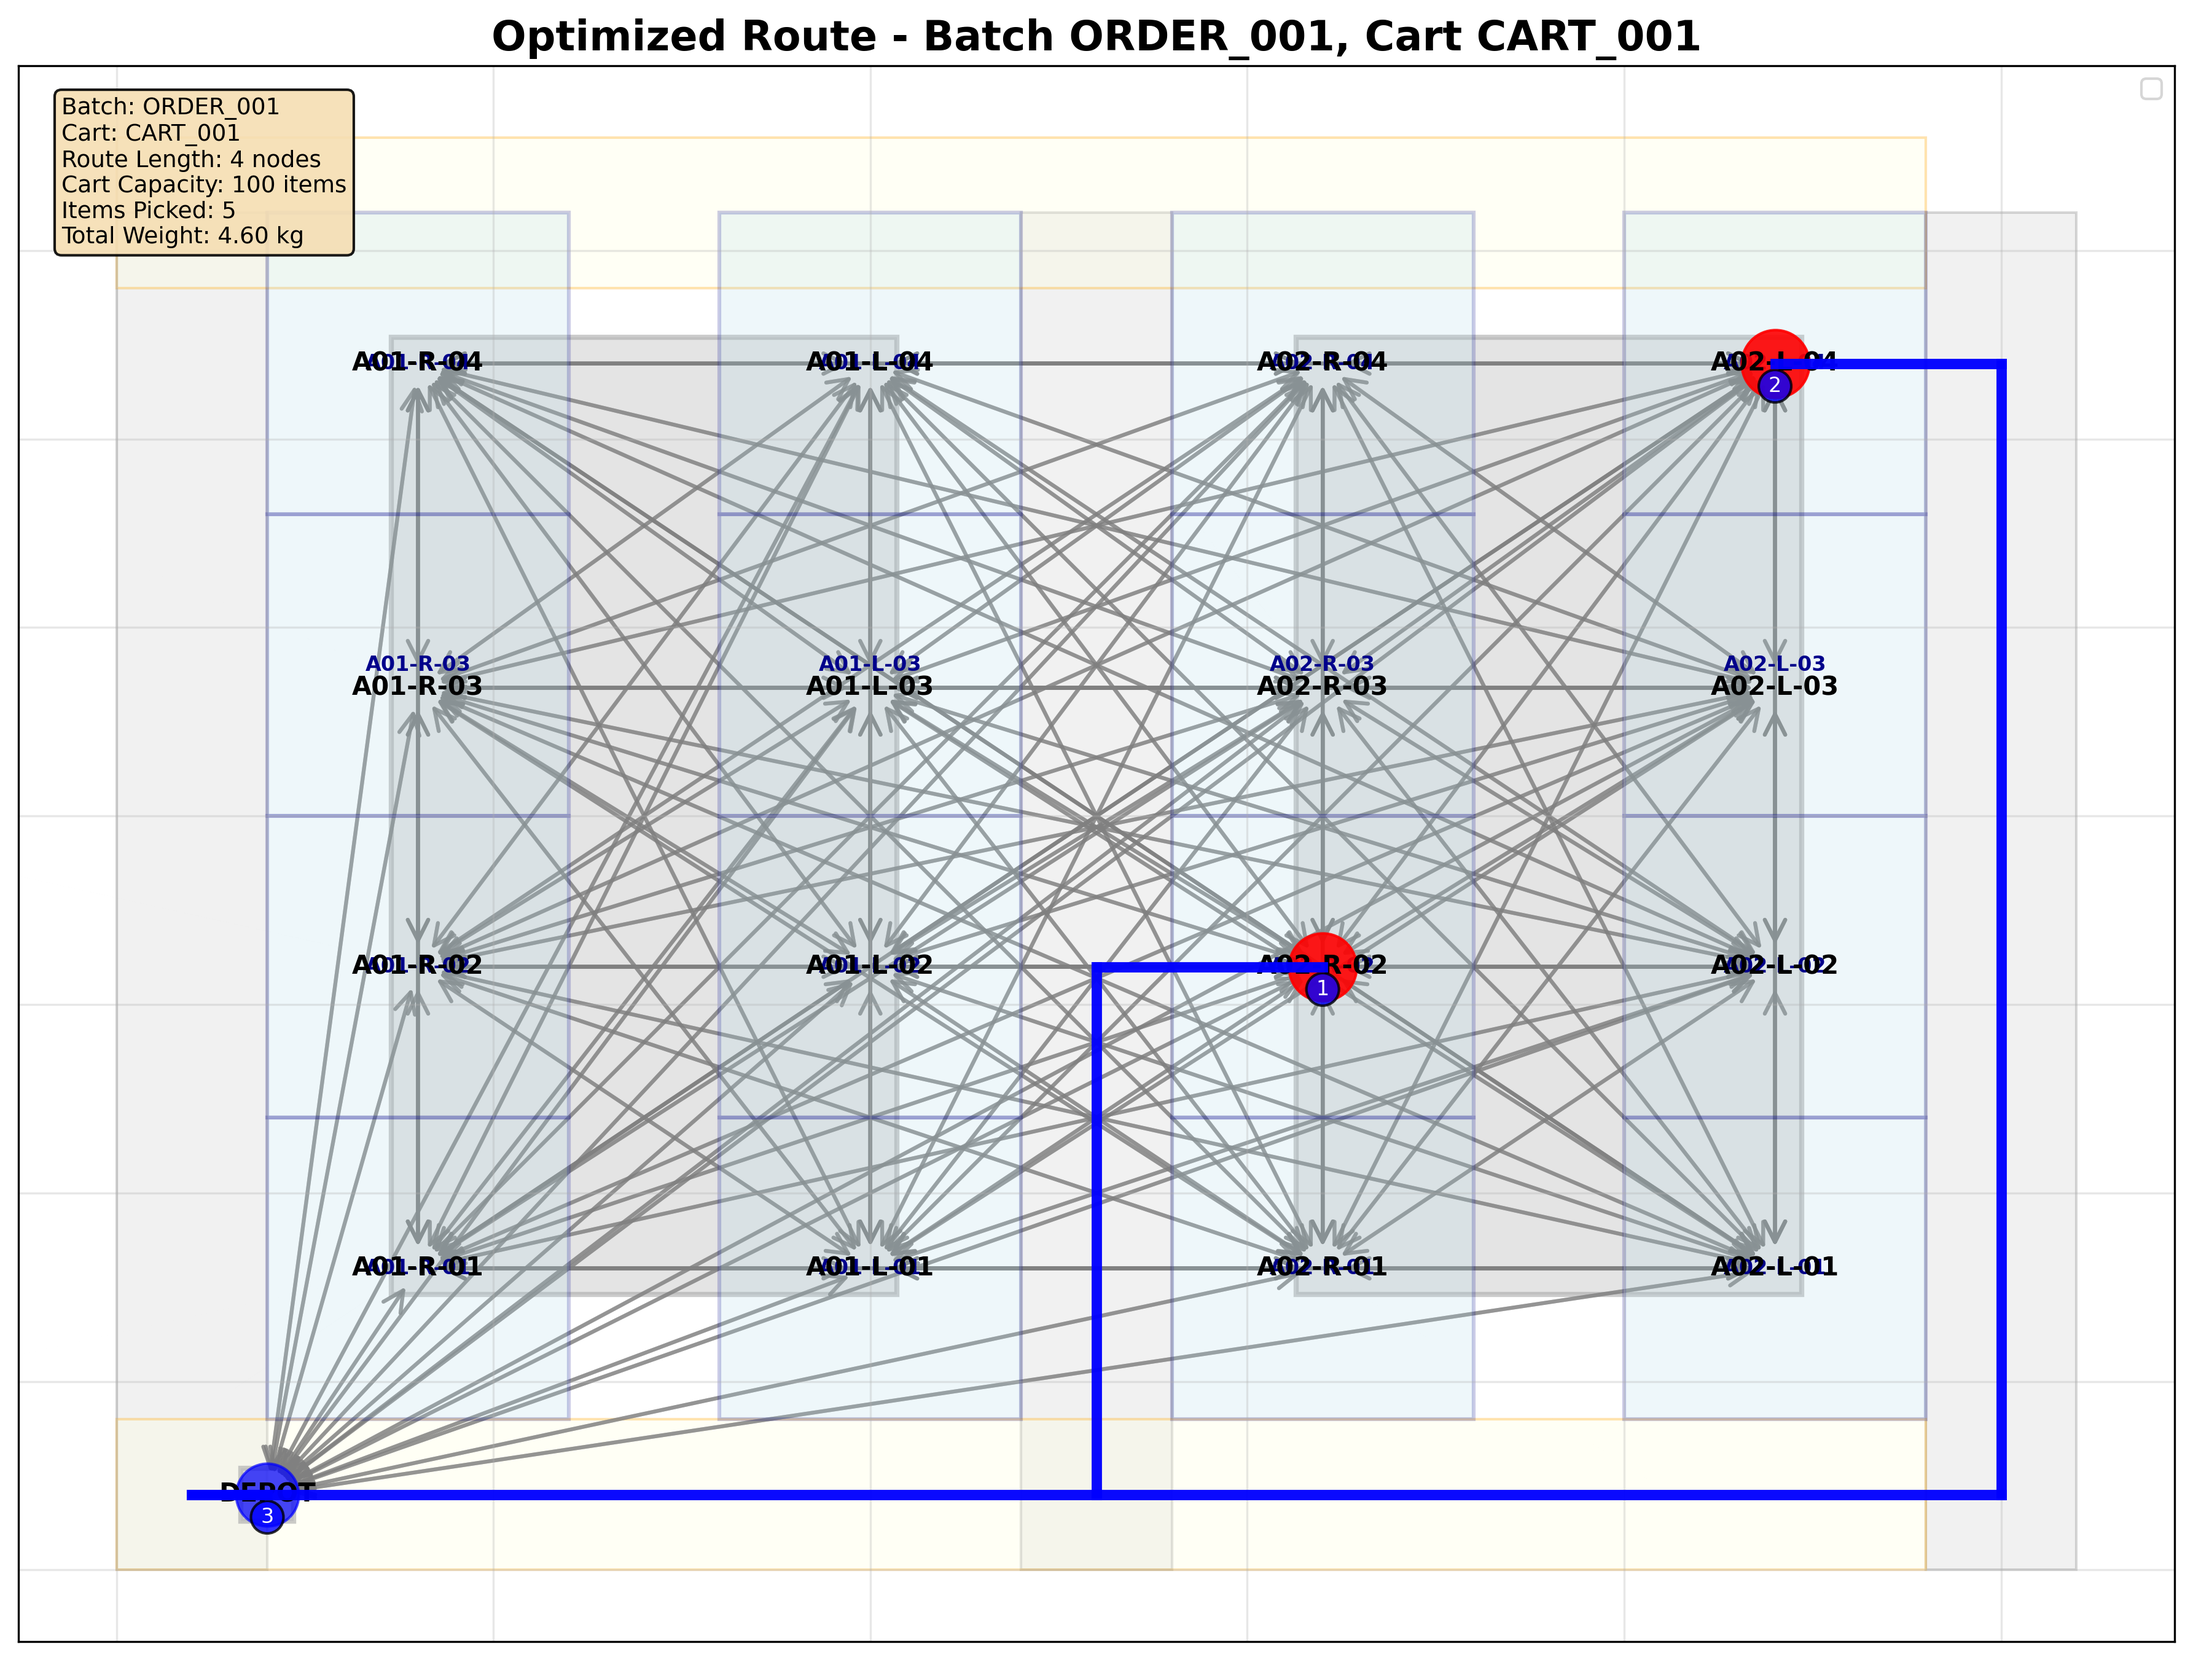
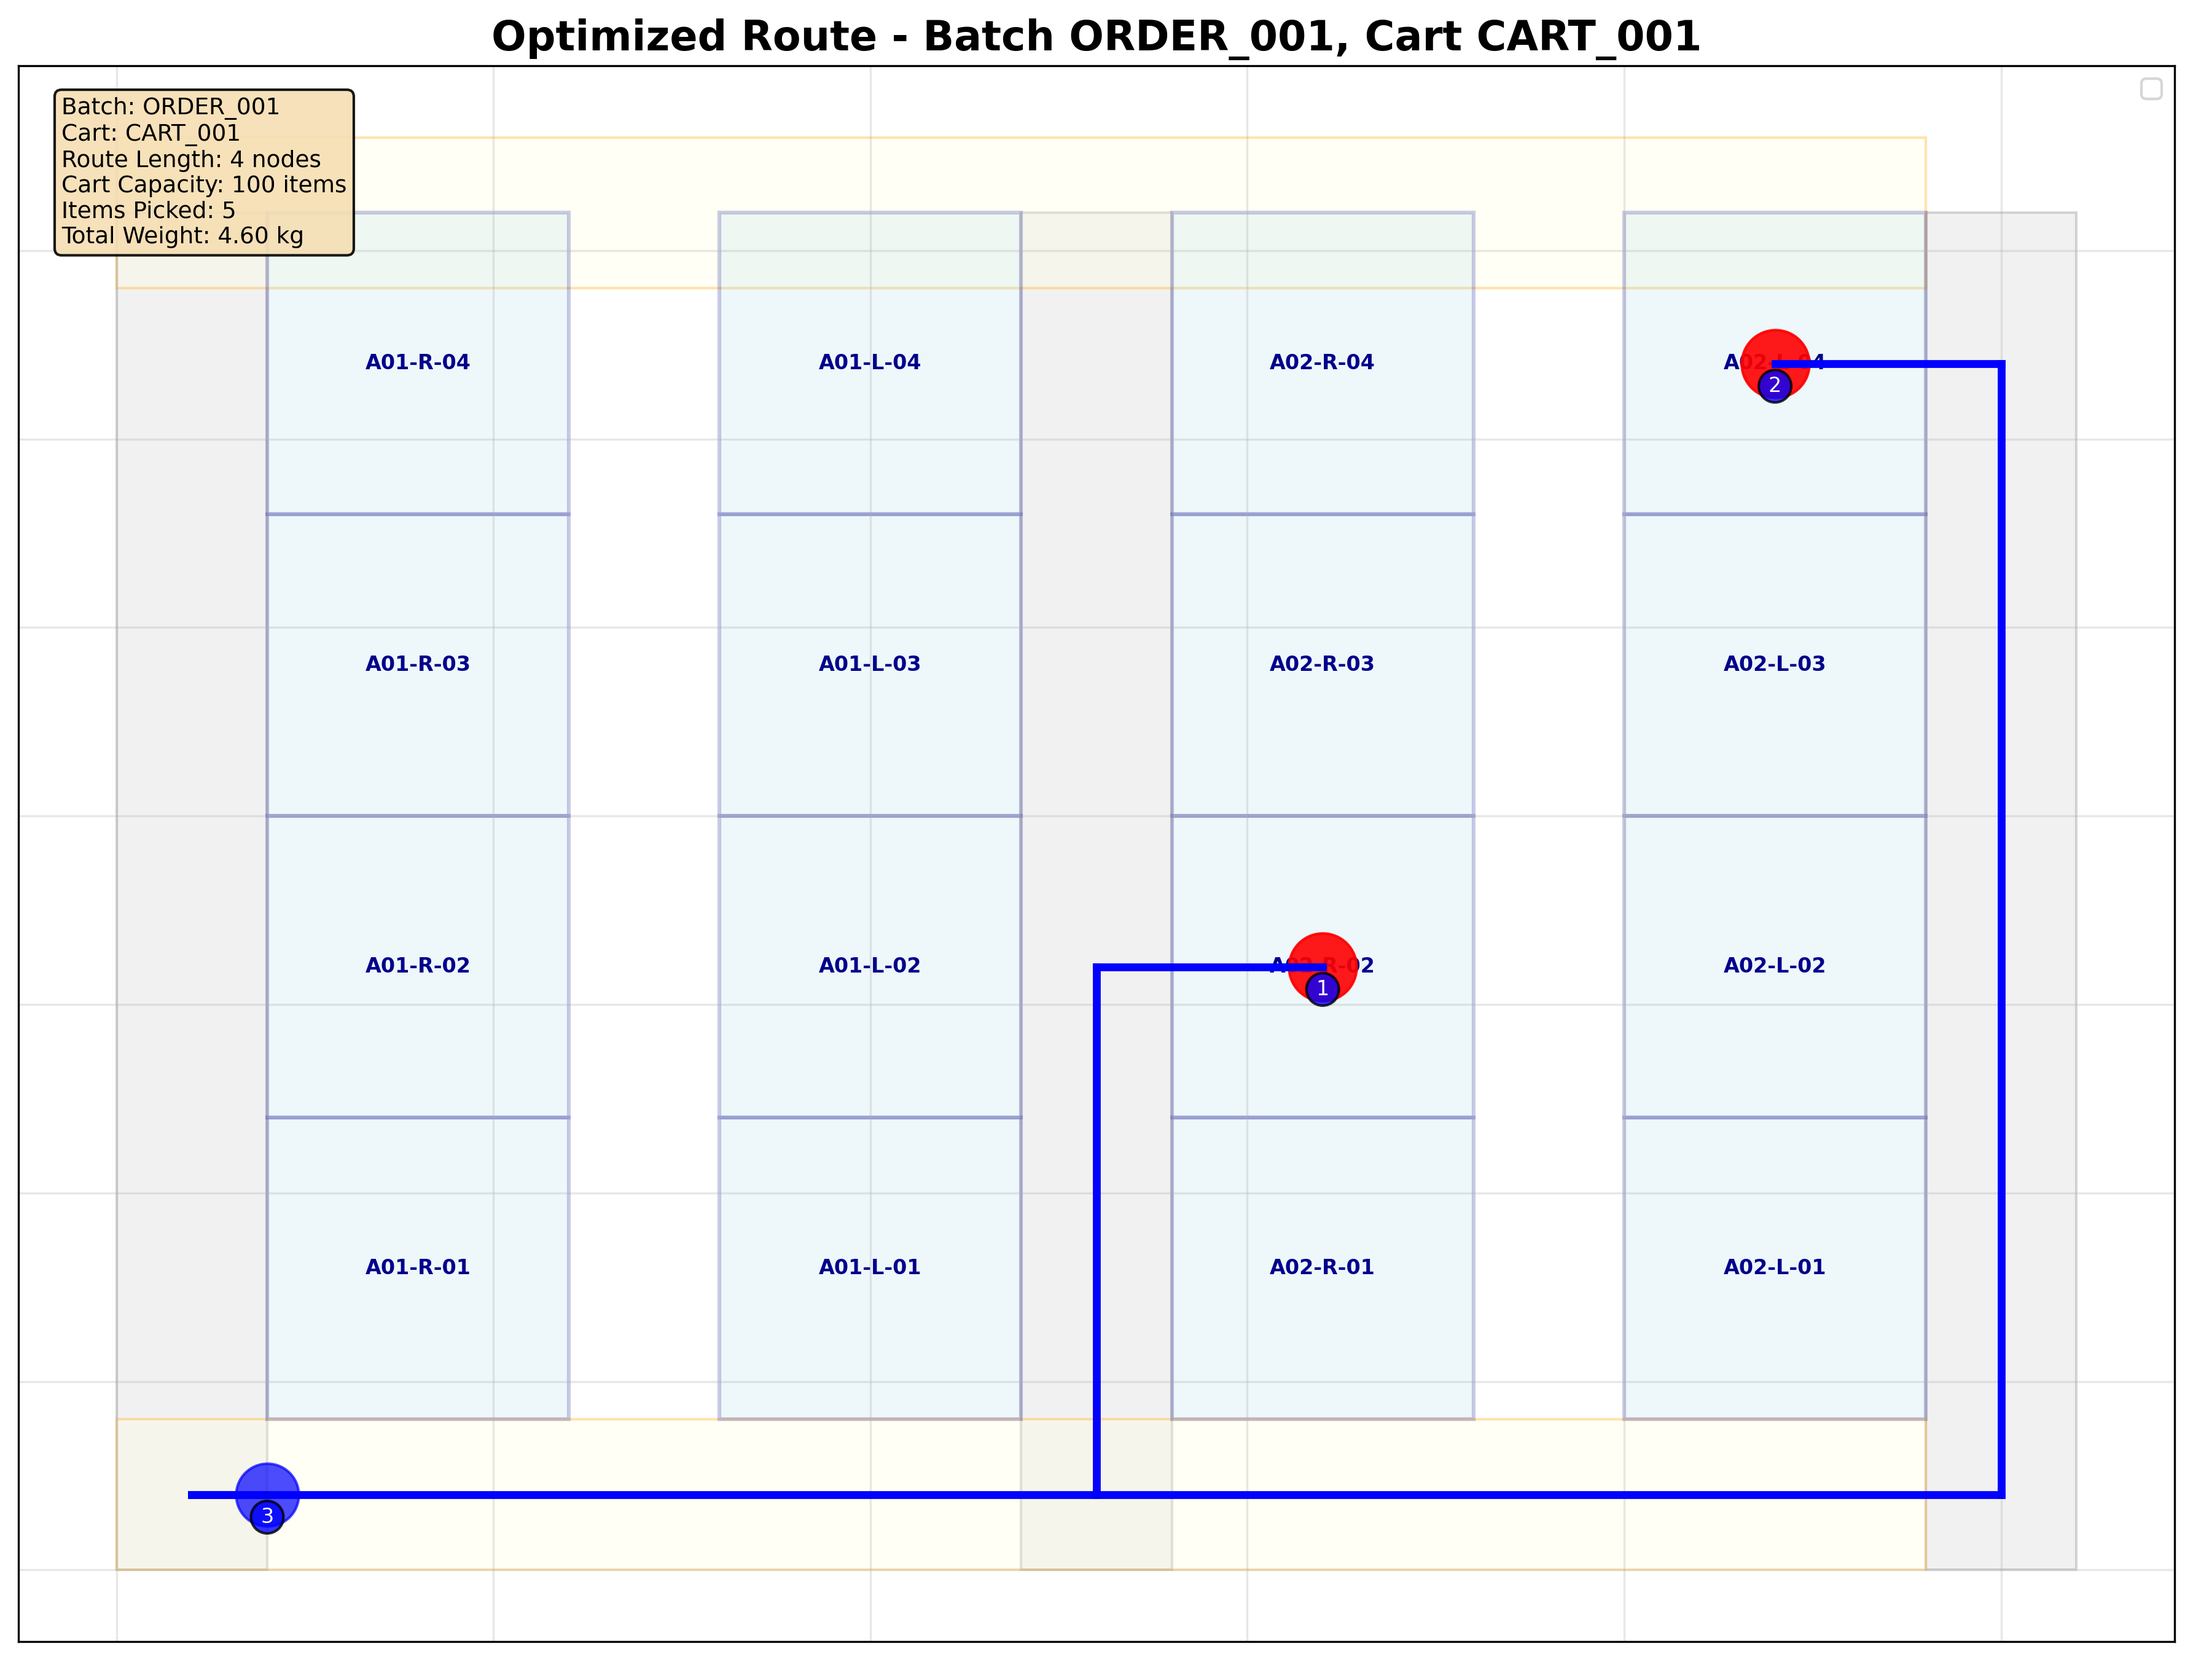
Refine route visualization by adjusting path segment styles and removing unnecessary elements for clarity

Changed region(s): [[0.0933, 0.1865, 0.8395, 0.9016], [0.4353, 0.8083, 0.4664, 0.8394]]

diff --git a/visualization/route_visualizer.py b/visualization/route_visualizer.py
@@ -206,11 +206,11 @@ class RouteVisualizer:
                     waypoints.append((aisle_passage_x, to_y))
                 waypoints.append((to_x, to_y))
 
-            # Draw the path segments
+            # Draw the path segments without arrows
             for j in range(len(waypoints) - 1):
                 x_coords = [waypoints[j][0], waypoints[j+1][0]]
                 y_coords = [waypoints[j][1], waypoints[j+1][1]]
-                self.ax.plot(x_coords, y_coords, color=route_color, linewidth=4, alpha=0.8, zorder=5)
+                self.ax.plot(x_coords, y_coords, color=route_color, linewidth=3, alpha=0.9, zorder=5)
 
     def _draw_passage_based_route(self, route: List[str], pos: dict, route_color: str) -> None:
         """Draw route path through passage centerlines for block-based warehouses."""
@@ -267,11 +267,11 @@ class RouteVisualizer:
             if waypoints[-1] != (to_x, to_y):
                 waypoints.append((to_x, to_y))
 
-            # Draw the path segments
+            # Draw the path segments without arrows
             for j in range(len(waypoints) - 1):
                 x_coords = [waypoints[j][0], waypoints[j+1][0]]
                 y_coords = [waypoints[j][1], waypoints[j+1][1]]
-                self.ax.plot(x_coords, y_coords, color=route_color, linewidth=4, alpha=0.8, zorder=5)
+                self.ax.plot(x_coords, y_coords, color=route_color, linewidth=3, alpha=0.9, zorder=5)
 
     def _get_passage_centerlines(self):
         """Extract passage centerlines from graph metadata or infer from structure."""
@@ -475,8 +475,8 @@ class RouteVisualizer:
 
         self.fig, self.ax = plt.subplots(figsize=figsize)
 
-        # Draw aisle and block rectangles first
-        self._draw_aisle_rectangles(self.ax, pos, node_types)
+        # Don't draw old-style aisle rectangles - we use block bounding boxes instead
+        # self._draw_aisle_rectangles(self.ax, pos, node_types)
 
         # Separate depot from other nodes
         depot_nodes = [n for n, t in node_types.items() if t == 'depot']
@@ -504,43 +504,13 @@ class RouteVisualizer:
         #     ax=self.ax
         # )
         
-        # Draw edges
-        # Separate bidirectional and unidirectional edges
-        bidirectional_edges = [(u, v) for u, v, d in G.edges(data=True) if d.get('bidirectional', False)]
-        unidirectional_edges = [(u, v) for u, v, d in G.edges(data=True) if not d.get('bidirectional', False)]
+        # Don't draw edges in base layout (too cluttered)
+        # Edges will only be visible in the route path
 
-        # Draw bidirectional edges with arrows in both directions (<-->)
-        nx.draw_networkx_edges(
-            G, pos,
-            edgelist=bidirectional_edges,
-            edge_color='gray',
-            style='solid',
-            alpha=0.6,
-            arrows=True,
-            arrowsize=20,
-            arrowstyle='<->',  # ← Two arrow heads (bidirectional)
-            width=1.5,
-            connectionstyle='arc3,rad=0.0',
-            ax=self.ax
-        )
-
-        # Draw unidirectional edges with single arrow (-->)
-        nx.draw_networkx_edges(
-            G, pos,
-            edgelist=unidirectional_edges,
-            edge_color='gray',
-            style='solid',
-            alpha=0.6,
-            arrows=True,
-            arrowsize=20,
-            arrowstyle='->',  # ← Single arrow head (unidirectional)
-            width=2,
-            connectionstyle='arc3,rad=0.0',
-            ax=self.ax
-        )
-        
-        # Draw labels
-        nx.draw_networkx_labels(G, pos, font_size=10, font_weight='bold', ax=self.ax)
+        # Don't draw labels here - they're already drawn in block bounding boxes
+        # Only draw depot label
+        depot_labels = {n: n for n in depot_nodes}
+        nx.draw_networkx_labels(G, pos, labels=depot_labels, font_size=10, font_weight='bold', ax=self.ax)
         
         # Draw edge labels (travel times)
         if show_edge_labels:
